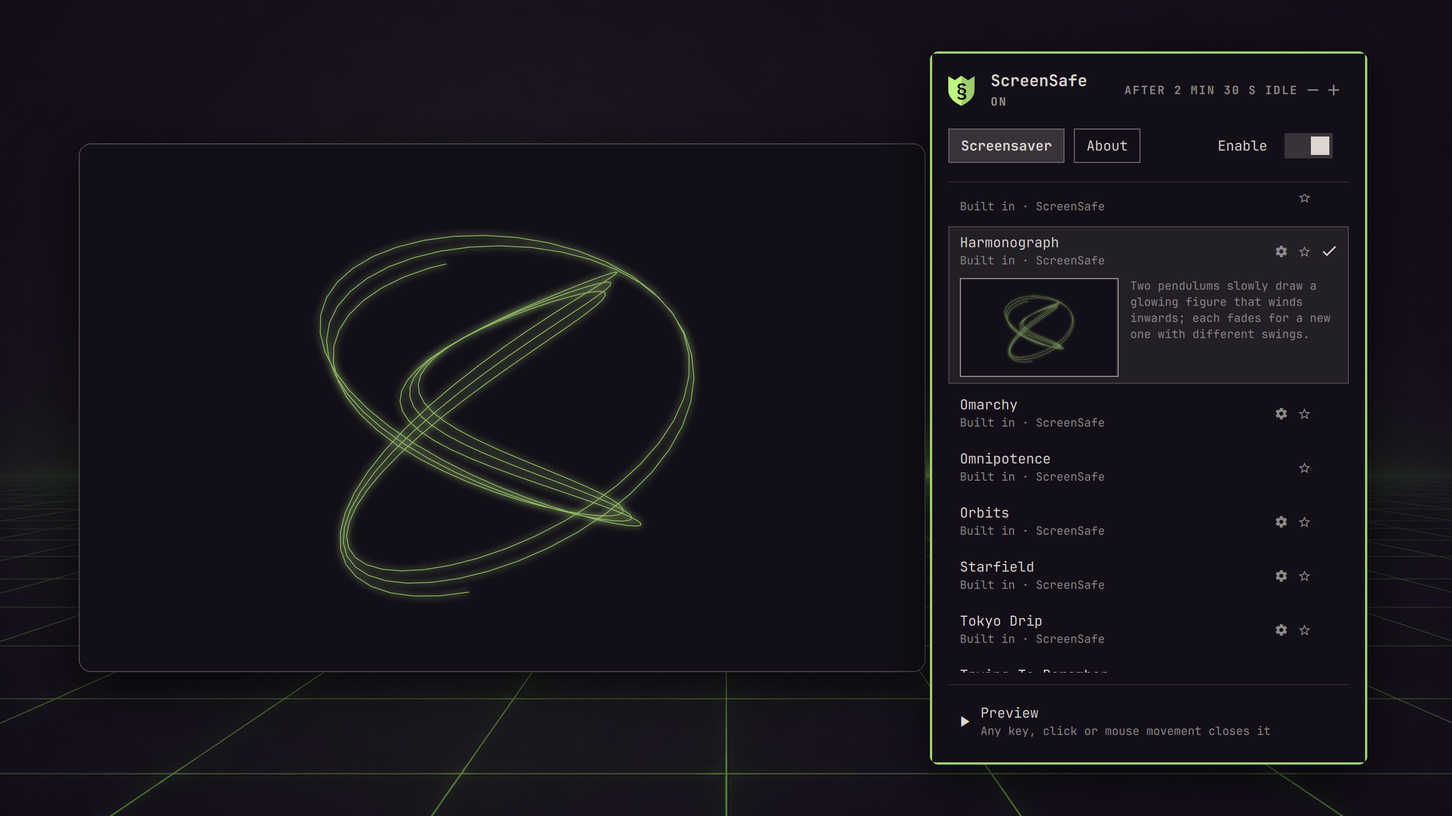
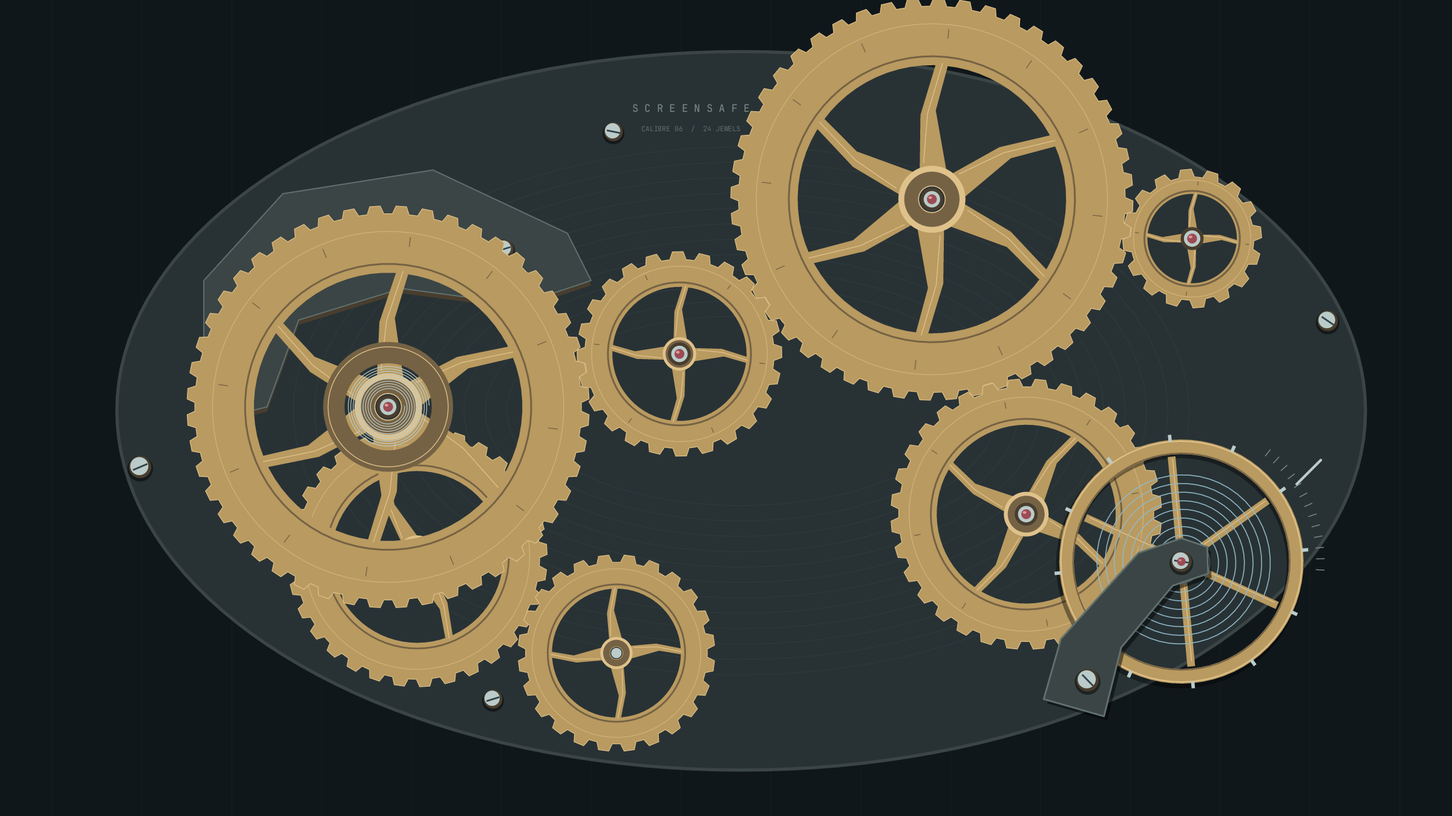
Publish ScreenSafe 0.6.0 documentation and scoped performance results

diff --git a/docs/SSV2-PROTOTYPE.md b/docs/SSV2-PROTOTYPE.md
@@ -1,12 +1,12 @@
 # SSVv2 format and decoder boundary
 
-ScreenSafe 0.6.0's testing candidate integrates this path into Videos, thumbnails and live preview. It remains separate from prepared procedural playback and has not received marketplace approval. Bare renderer invocation still requires the trusted wrapper to read compressed files. Pack authors provide data, not commands or native code.
+ScreenSafe 0.6.0 integrates this path into Videos, thumbnails and live preview. It remains separate from prepared procedural playback and has not received marketplace approval. Bare renderer invocation still requires the trusted wrapper to read compressed files. Pack authors provide data, not commands or native code.
 
-The experiment keeps **16-bit frame references**. It permits up to **65,535 frames**, fixed **24 FPS**, even dimensions up to **1280 × 720**, and **512 MiB per file**. That is at most **45 minutes 30.625 seconds**, subject to storage and conversion budgets. JPEG SSV v1 keeps its existing five-minute, 7,200-frame limits. No renderer frame identifiers were widened.
+The format keeps **16-bit frame references**. It permits up to **65,535 frames**, fixed **24 FPS**, even dimensions up to **1280 × 720**, and **512 MiB per file**. That is at most **45 minutes 30.625 seconds**, subject to storage and conversion budgets. JPEG SSV v1 keeps its existing five-minute, 7,200-frame limits. No renderer frame identifiers were widened.
 
-## Use an isolated checkout
+## Import and explicit CLI playback
 
-Build the renderer normally with `scripts/build-release`. On a standard Omarchy system the remaining tools and libraries are already supplied by the base installation; there is no additional installer or runtime download. This prototype uses the existing bundled resource launcher and sandbox, and system FFmpeg. H.264 encoding needs FFmpeg's libx264; AV1 encoding uses libaom and decoding uses libdav1d. Missing support fails the operation rather than installing anything.
+The normal installation includes the renderer and helpers. Maintainers can rebuild the renderer with `scripts/build-release`. On a standard Omarchy system the remaining tools and libraries are already supplied by the base installation; there is no additional installer or runtime download. This path uses the existing bundled resource launcher and sandbox, and system FFmpeg. H.264 encoding needs FFmpeg's libx264; AV1 encoding uses libaom and decoding uses libdav1d. Missing support fails the operation rather than installing anything.
 
 ```sh
 python3 tools/videos/ssv2.py SOURCE.mp4 /tmp/ssv2-clips/clip.ssv --codec h264
@@ -16,11 +16,11 @@ python3 tools/videos/play_v2.py --renderer "$PWD/bin/screensafe-$(uname -m)" -- 
   run --pack "$PWD/packs/videos" --videos /tmp/ssv2-clips
 ```
 
-The wrapper supports `render`, `check`, `thumbnail`, `catalog` and `preview`. Preview retains a separate inherited text-input pipe before confinement; decoder packets keep their private stdin socket. Only a bounded pipe or regular control file is accepted, with no unsafe raw-FD construction or named listener. The default delivery streams pixels into renderer-owned buffers; `--delivery snapshot` selects sealed snapshots. Hardware startup first admits a complete snapshot so unavailable hardware cannot return a misleading stream. Direct CLI use changes no preferences. This candidate is not marketplace-approved or a finalized interchange standard.
+The wrapper supports `render`, `check`, `thumbnail`, `catalog` and `preview`. Preview retains a separate inherited text-input pipe before confinement; decoder packets keep their private stdin socket. Only a bounded pipe or regular control file is accepted, with no unsafe raw-FD construction or named listener. The default delivery streams pixels into renderer-owned buffers; `--delivery snapshot` selects sealed snapshots. Hardware startup first admits a complete snapshot so unavailable hardware cannot return a misleading stream. Direct CLI use changes no preferences. Marketplace verification applies only to the exact listed commit. SSVv2 remains a ScreenSafe-specific envelope, not a general interchange standard.
 
 ## Explicit H.264 hardware profile
 
-The default wrapper profile is software decoding. Hardware H.264 is an explicit R&D profile for PCI VAAPI render nodes:
+The default wrapper profile is software decoding. Hardware H.264 is an explicit, default-off profile for PCI VAAPI render nodes:
 
 ```sh
 python3 tools/videos/play_v2.py --decoder vaapi --device /dev/dri/renderD128 \
@@ -32,19 +32,19 @@ The caller selects the device; packs and decoder requests cannot supply one. Thi
 
 The broker retains the render-node identity and verifies it again inside the cage before codec startup. Symlinks, primary/card nodes and non-render devices are refused. The worker receives one render node and eight pinned read-only metadata files with the sysfs links needed by the driver. It receives no whole `/sys`, PCI resource/config/ROM files, other GPU devices or display socket. The parent-only device handle is not inherited, and setup descriptors are consumed before codec execution. New sockets and connections are denied by seccomp independently of network namespaces; normal threads remain available.
 
-This preserves final CPU composition and runtime guarding. No DMA-BUF or GPU-writable image is admitted to the renderer. Both direct delivery and sealed snapshots finish copying pixels before checking or displaying them. Render nodes exclude modesetting/DRM-master authority, but expose rendering ioctls and the kernel/driver attack surface; see the [kernel DRM documentation](https://docs.kernel.org/gpu/drm-uapi.html#render-nodes). CPU/address-space limits do not establish a global GPU-memory quota, guarantee recovery from a kernel/driver hang, or make arbitrary GPU ioctls harmless. This requires review before production routing.
+This preserves final CPU composition and runtime guarding. No DMA-BUF or GPU-writable image is admitted to the renderer. Both direct delivery and sealed snapshots finish copying pixels before checking or displaying them. Render nodes exclude modesetting/DRM-master authority, but expose rendering ioctls and the kernel/driver attack surface; see the [kernel DRM documentation](https://docs.kernel.org/gpu/drm-uapi.html#render-nodes). CPU/address-space limits do not establish a global GPU-memory quota, guarantee recovery from a kernel/driver hang, or make arbitrary GPU ioctls harmless. This is part of the 0.6.0 review surface, separately from the software default.
 
 Physical-GPU tests are opt-in: set `SCREENSAFE_TEST_RENDER_NODE` to an explicit accessible render node when running the importer/playback suite. Ordinary CI runs the software cage, protocol and failure tests and skips physical-GPU cases. Actual laptop tests cover hardware-required composition in all six styles, flash rejection, seeks, neighbors, loops, immutable delivery and parent-death cleanup. These are functional/security checks, not a new power or endurance result. Native ARM display/hardware qualification and other hardware APIs remain open.
 
 ## Encode and validate
 
-The explicit importer accepts a retained, no-follow regular MP4 descriptor of at most 2 GiB. It normalizes one video stream to fixed 8-bit YUV420, dimensions and cadence, with no audio, subtitles or variable resolution. HDR transfer functions are refused. The profiles use closed one-second GOPs without frame reordering. H.264 uses CRF 16.8 (chosen so a 47-second grain-heavy 720p clip stays under 50 MB; 16.0 measured 51.9 MiB at SSIM 0.980, 16.8 measured 46.9 MiB at 0.979 with slightly lower decode CPU), x264's `fastdecode` tuning, and disabled B-frames and scene-cut keyframes. The tuning disables CABAC, deblocking and weighted prediction to reduce software decode work; see the [x264 implementation](https://github.com/mirror/x264/blob/master/common/base.c). AV1 uses libaom CRF 24, no lag/alternate-reference frames, and fixed keyframe spacing. These are experiment profiles, not a claim of equivalent quality between codecs.
+The explicit importer accepts a retained, no-follow regular MP4 descriptor of at most 2 GiB. It normalizes one video stream to fixed 8-bit YUV420, dimensions and cadence, with no audio, subtitles or variable resolution. HDR transfer functions are refused. The profiles use closed one-second GOPs without frame reordering. H.264 uses CRF 16.8 (chosen so a 47-second grain-heavy 720p clip stays under 50 MB; 16.0 measured 51.9 MiB at SSIM 0.980, 16.8 measured 46.9 MiB at 0.979 with slightly lower decode CPU), x264's `fastdecode` tuning, and disabled B-frames and scene-cut keyframes. The tuning disables CABAC, deblocking and weighted prediction to reduce software decode work; see the [x264 implementation](https://github.com/mirror/x264/blob/master/common/base.c). AV1 uses libaom CRF 24, no lag/alternate-reference frames, and fixed keyframe spacing. These are ScreenSafe import profiles, not a claim of equivalent quality between codecs.
 
 Encoder jobs cover 30 seconds for H.264 and 4 seconds for AV1. A confined full decode of each job checks actual dimensions, pixel format, frame count and keyframe spacing. Jobs retain the existing 180 CPU-second, 2 GiB address-space, 64-descriptor, 128 MiB regular-file and 64 MiB scratch limits. Encoder/validation wall deadlines are at most 90 seconds each, with a 30-minute overall codec-pipeline budget. Complexity can exhaust a budget before reaching the format ceiling; no partial archive is published.
 
 The parent streams output into private temporary files. Assembly temporarily needs up to twice the compressed file size, plus a bounded index. Publication never replaces an existing destination, including a racing symlink. Cancellation, changed input or failed profile checks remove staging. No video bytes are downloaded.
 
-## File layout (experimental)
+## File layout
 
 All integer fields are little-endian. The 64-byte header is `8s, 14×u32`:
 
@@ -73,7 +73,7 @@ Skipped neighboring frames can use a bounded sealed-memfd cache in the broker, a
 
 The ordinary rasterizer applies crop, tone, curvature, device/Film art and optional overlay. The existing runtime flash guard remains after final composition. This path does **not** use the procedural cache's offline GPU approval or assume that a media hash constrains decoder output. A compromised codec still has its confined syscall/kernel surface; isolation is not a promise that bugs are impossible.
 
-There is no idle broker polling timer: renderer EOF and the parent's pidfd end the work. Codec death, invalid metadata, incomplete frames, expired deadlines or input mutation refuse the video. A well-formed refusal allows subsequent clips; a broken transport closes the prototype session. Shutdown cleans up the decoder and renderer.
+There is no idle broker polling timer: renderer EOF and the parent's pidfd end the work. Codec death, invalid metadata, incomplete frames, expired deadlines or input mutation refuse the video. A well-formed refusal allows subsequent clips; a broken transport closes the playback session. Shutdown cleans up the decoder and renderer.
 
 ## Evidence and remaining qualification
 
@@ -85,4 +85,4 @@ The tested device styles and loop transitions completed without broker failures.
 
 Earlier laptop power tests found guarded software H.264 delivery used less package power than hardware decode with CPU readback in that pipeline. Later owned-pixel work also reduced JPEG cost, so those results are not a fresh comparison of this combined implementation. AV1 has no corresponding watt measurement. New imports default to H.264 for storage, duration and the hardware target; JPEG remains an explicit compatibility option. Hardware selection stays opt-in pending broader power/security qualification. File size, CPU, image quality and watts are distinct measurements; no new battery-runtime percentage is claimed.
 
-Before production routing or a marketplace update: extend laptop endurance and native ARM playback qualification, compare quality on more representative inputs, review the new trusted broker and codec-at-playback surface, and decide whether these profiles and envelope are ready to freeze. GitHub attestations cover the committed application executables; they do not certify codec correctness, encoded-media quality or battery savings.
+Remaining qualification includes more laptop endurance trials, physical ARM playback, other GPUs and more representative clips. The trusted broker and codec-at-playback surface are included in the 0.6.0 review; hardware selection remains explicit and default-off. Future envelope/profile changes require versioned compatibility and fresh validation. GitHub attestations cover the committed application executables; they do not certify codec correctness, encoded-media quality or battery savings.

diff --git a/README.md b/README.md
@@ -16,7 +16,7 @@
   <img src="https://img.shields.io/badge/license-MIT-9ece6a" alt="MIT license">
 </p>
 
-![ScreenSafe's Harmonograph pack, and the ScreenSafe panel with Harmonograph chosen and open](preview.png)
+![Clockwork in ScreenSafe 0.6.0: brass gears, jeweled bearings and a balance spring](preview.png)
 
 A screensaver in ScreenSafe is a **pack**: a folder with a `screensafe.toml` and its art. A pack describes what to draw and how it moves, with small formulas like `sin(t * 2)` in a language that can't loop, read files or reach the network. ScreenSafe draws the pack itself, and nothing in a pack ever runs as a program, **so a pack from someone else can only describe pictures.**
 
@@ -24,11 +24,11 @@ A screensaver in ScreenSafe is a **pack**: a folder with a `screensafe.toml` and
 - **Your theme, everywhere.** Packs draw in the current theme's palette, and a theme can bring a pack of its own.
 - **Sharp on every screen.** Native Wayland drawing; video uses a bounded canvas scaled by the compositor.
 - **Settings without code.** Packs can offer a speed, a density or a picture; change them in the panel and watch the pack update live.
-- **Made to be safe.** A sandboxed renderer, a checked format, and a flash limit no pack can get past.
+- **Bounded and confined.** A checked data format, a confined renderer, and final-frame flash checks with [documented limits](SECURITY.md#flashing).
 
-**0.6.0 testing candidate:** combines the compiler and sprite optimizations, video styles, theme colors, trusted overlay and opt-in prepared loops with compressed SSVv2 videos. H.264 hardware decoding is an explicit control under Settings → Performance; the live preview and full-screen player use the same policy and final flash guard. All application helpers are included for x86-64 and ARM64; installation builds and downloads nothing else. See [the Videos guide](docs/VIDEO-PROTOTYPE.md). Marketplace approval of 0.4.8 does not cover this candidate; verify the exact commit and binary attestations as described below.
+**New in 0.6.0:** more efficient expression and sprite rendering, optional prepared playback, local videos with Film/CRT/Flatscreen styles, Seasons and Clockwork, theme swatches and custom colors, and an optional information overlay. [Performance measurements](docs/PERFORMANCE.md) separate drawing gains, cache savings and the cost of stronger flash analysis.
 
-The [SSVv2 boundary notes](docs/SSV2-PROTOTYPE.md) describe codec isolation, hardware authority and owned frame delivery. Existing JPEG clips remain supported, and final-composition flash guarding stays active in both video modes.
+All application helpers are included for x86-64 and ARM64; installation builds and downloads nothing else. [The Videos guide](docs/VIDEO-PROTOTYPE.md) covers local imports and playback. [The marketplace listing](https://omarchyplugins.com/plugin.html?id=io.github.jeremydixon22.screensafe) shows the currently reviewed snapshot: verification applies to that exact commit, not automatically to newer upstream code.
 
 ## The packs
 
@@ -52,7 +52,15 @@ omarchy plugin enable io.github.jeremydixon22.screensafe
 
 ScreenSafe's shield appears in the bar, in your theme's accent. Nothing changes until you switch it on: Omarchy's own screensaver stays in use until then.
 
-ScreenSafe needs Omarchy 4 on an x86-64 or 64-bit ARM computer, with no separate runtime setup. The 0.6.0 candidate has been tested on an x86-64 Omarchy 4.5.x laptop. CI runs renderer tests and native-helper checks on both x86-64 and ARM64; physical ARM GPU playback has not been qualified. Prepared playback checks the local display and GPU profile and uses normal rendering when the setup is unsupported.
+ScreenSafe needs Omarchy 4 on an x86-64 or 64-bit ARM computer, with no separate runtime setup. Version 0.6.0 has been tested on an x86-64 Omarchy 4.5.x laptop. CI runs renderer tests and native-helper checks on both x86-64 and ARM64; physical ARM GPU playback has not been qualified. Prepared playback checks the local display and GPU profile and uses normal rendering when the setup is unsupported.
+
+To update an existing Git-managed installation:
+
+```sh
+omarchy plugin update io.github.jeremydixon22.screensafe
+```
+
+Your chosen pack and settings are retained. Updates to playback code or graphics libraries require fresh approval before a prepared loop can be reused.
 
 ## Use
 
@@ -61,10 +69,11 @@ Click the shield in the bar.
 | | |
 |---|---|
 | **Settings → Overlay** | Optional clock, date, battery, CPU and memory over any pack. The position grid stays pinned while other options scroll. Choose one of nine positions, size, opacity and colors; slow drift is on by default. System readings are off until selected. Use Preview to try the result. |
-| **Settings → Performance** | Prepare a short loop of a supported screensaver on external power, then reuse it to reduce runtime work. Off by default; use on battery only or all the time, choose a storage limit, cancel preparation, or clear loops. Prepared loops repeat a segment. Clocks, Photos, Videos, the overlay, and unsupported displays use normal playback. |
+| **Settings → Performance** | Turn on **Prepared playback** to build eligible loops automatically on external power and reuse them on later activations. Preparation starts with fullscreen progress; lighter packs can appear with lower-third progress. Off by default. Choose battery-only or all-time reuse, a storage limit, cancellation or clear. Prepared loops repeat a 16–32 second segment; clocks, Photos, Videos, overlays and unsupported displays stay live. |
 | **Enable** | Show ScreenSafe instead of Omarchy's screensaver when you're idle. Right-clicking the shield does the same. |
 | **After … idle** | How long you're idle before it shows. It follows Omarchy's screensaver time until you choose your own with **−** and **+** (or the arrow keys), from 1 minute to an hour; step back below 1 minute to follow Omarchy's again. Point at it to see whose time it is and when Omarchy locks. |
-| **Pack** | Which screensaver to show. **Automatic** shows the current theme's pack if it has one, and the Omarchy pack otherwise. Every entry shows its thumbnail and description in a stable card. Press `f` or click ☆ to make it a favorite, listed first. |
+| **Pack** | Which screensaver to show. **Automatic** shows the current theme's pack if it has one, and the Omarchy pack otherwise. Every entry shows its thumbnail and description in a stable card. Press `f` or click ☆ to make it a favorite. The star updates immediately; favorites move to the top the next time the panel opens. |
+| **Hardware H.264 videos** | An independent, default-off control under Settings → Performance. Software decoding is the default. The hardware path must produce checked, renderer-owned pixels before final composition and flash checks; unsupported hardware is refused. |
 | **Color** | Theme-based packs offer theme swatches and a custom HSV picker, pinned below the scrolling options. Original theme colors remain the default. Tinting preserves light/dark detail; Photos and Videos show this control when **Tone → Theme** is selected. |
 | **⚙ Settings** | For a pack that has them: click ⚙, or press → or `s` on its row. The page shows the pack running live as you change them; turn **Live preview** off for a still thumbnail and the usual Preview. |
 | **Preview** | Show the chosen pack now. Any key, click, touch or mouse movement closes it. |
@@ -175,7 +184,7 @@ python3 scripts/build-native.py /tmp/screensafe-native
 scripts/verify-native
 ```
 
-Prepared playback supports a single, unrotated display up to 4096 × 2160 and 64 Hz when a PCI GPU fits the bounded metadata profile and its driver exports linear XRGB buffers. Preparation checks both software and hardware-copy decoding and uses a passing profile; direct hardware interop is excluded. Updates to relevant binaries, graphics/codec libraries, kernel, theme, settings or display invalidate reuse. The small settings preview stays live. With **Prepared playback** enabled, full-screen Preview and idle activation automatically prepare a missing eligible loop on known external power. A progress bar appears over live rendering when there is enough headroom, or replaces it while preparation is busy. Completion resumes live rendering; later activations may reuse the approved loop. **Use on battery only** controls reuse and still permits preparation on external power. Choose **Rebuild selected screensaver** to regenerate it explicitly. Unsupported setups use normal playback.
+Prepared playback supports a single, unrotated display up to 4096 × 2160 and 64 Hz when a PCI GPU fits the bounded metadata profile and its driver exports linear XRGB buffers. Preparation checks both software and hardware-copy decoding and uses a passing profile; direct hardware interop is excluded. Updates to relevant binaries, graphics/codec libraries, kernel, theme, settings or display invalidate reuse. The small settings preview stays live. With **Prepared playback** enabled, full-screen Preview and idle activation automatically prepare a missing eligible loop on known external power. Fullscreen progress appears first while rendering cost is tested out of sight. A pack with enough headroom is then revealed above lower-third progress; demanding packs keep the progress-only display. Completion resumes live rendering; later activations may reuse the approved loop. **Use on battery only** controls reuse and still permits preparation on external power. Choose **Rebuild selected screensaver** to regenerate it explicitly. Unsupported setups use normal playback.
 
 Prepared playback can reduce power for demanding effects. Simple screensavers may cost less to draw live than to decode and present as video; prepared playback remains off by default. The prepared segment repeats, while live playback can continue generating new variations. On battery, an empty cache falls back without hashing the runtime libraries. Automatic generation runs only on external power, and input, lock or shell exit cancels unfinished work. Existing approvals still receive full identity and sealed-media verification; independent file hashes run in bounded parallel workers. Updated decoder/policy identities require fresh preparation.
 

diff --git a/docs/REVIEW-NOTES.md b/docs/REVIEW-NOTES.md
@@ -2,13 +2,13 @@
 
 A summary of what ScreenSafe does on a user's machine, for marketplace and other reviewers. [SECURITY.md](../SECURITY.md) has the full account.
 
-## 0.6.0 combined testing candidate
+## 0.6.0 update
 
 This retains 0.5.0's compiler/sprite optimizations, video art/startup/drift, colors, overlay and opt-in procedural loops. It integrates SSVv2 into catalog/thumbnail/live preview/full-screen Videos, with a software default and an explicit Hardware H.264 control. Videos bypass procedural cache routing. Imports default to H.264 SSVv2; JPEG remains readable and explicitly importable. V2 keeps 16-bit references, 65,535 frames, 720p/24 FPS and the 512 MiB file cap.
 
 For compressed Videos, the trusted broker selects codec/device policy; packs cannot request commands or devices. Hardware adds one identity-checked PCI render node and eight pinned read-only metadata files. No compositor socket, full sysfs or primary GPU node is exposed. New worker sockets are denied. Allocation/pixel limits constrain coded headers as well as the envelope. Hardware produces a complete snapshot before streaming, with no silent software downgrade. Copied owned pixels still pass final composition/runtime guarding.
 
-Fullscreen overlay/stats/Quit and preview settings/region/Quit use a separately retained inherited text pipe, preserving the private decoder packet channel and bounded control parsing. No named endpoint, unsafe Rust or additional native helper beyond the 0.5.0 set was added. Both decoder paths use the shared retained PCI render-node/eight-file metadata authority. The prepared worker independently denies new socket/connection/listener operations across all library threads after trusted graphics initialization and before media parsing. Its native self-test checks existing/new threads and retained IPC. Empty-cache fallback avoids runtime-library hashing; possible hits retain all approval checks. GPU kernel/driver authority, global GPU resource limits, physical ARM hardware and end-to-end power remain qualification items. Existing marketplace approval does not cover this candidate.
+Fullscreen overlay/stats/Quit and preview settings/region/Quit use a separately retained inherited text pipe, preserving the private decoder packet channel and bounded control parsing. No named endpoint, unsafe Rust or additional native helper beyond the 0.5.0 set was added. Both decoder paths use the shared retained PCI render-node/eight-file metadata authority. The prepared worker independently denies new socket/connection/listener operations across all library threads after trusted graphics initialization and before media parsing. Its native self-test checks existing/new threads and retained IPC. Empty-cache fallback avoids runtime-library hashing; possible hits retain all approval checks. GPU kernel/driver authority, global GPU resource limits, physical ARM hardware and end-to-end power remain qualification items. The 0.4.8 marketplace approval does not cover 0.6.0; verification is tied to the exact listed commit.
 
 Automatic preparation is opt-in through Prepared playback. On external power a missing eligible loop uses the existing deterministic recording/encoding and GPU verification paths, with trusted progress composed inside the normal flash-guarded renderer. Runtime cost selects an overlay or progress-only display. Progress never grants approval, codec counts are stage-bounded, and input/lock/unload cancellation ends work. Completed loops are reused on later activations. Battery-only controls reuse, not permission to generate on battery. No new native dependency or renderer filesystem authority is added.
 
@@ -20,7 +20,7 @@ Flash admission now averages every pixel on a finer grid and checks concurrent t
 
 ## Expected baseline result
 
-The 0.4.8 release's baseline was `review-required`, with no findings and one capability: `bundled-executable-binary`. The 0.6.0 candidate includes six native helper executables in addition to the two static Rust renderers, so a fresh exact-commit scan and human review are required. All eight binaries are included and have rebuild/attestation recipes; see [BINARY-PROVENANCE.md](BINARY-PROVENANCE.md) and [native packaging](NATIVE-PACKAGE.md). Installation never downloads dependencies, builds source or runs privileged setup. Omarchy supplies the existing media/graphics libraries.
+The 0.4.8 release's baseline was `review-required`, with no findings and one capability: `bundled-executable-binary`. The 0.6.0 update includes six native helper executables in addition to the two static Rust renderers, so a fresh exact-commit scan and human review are required. All eight binaries are included and have rebuild/attestation recipes; see [BINARY-PROVENANCE.md](BINARY-PROVENANCE.md) and [native packaging](NATIVE-PACKAGE.md). Installation never downloads dependencies, builds source or runs privileged setup. Omarchy supplies the existing media/graphics libraries.
 
 To reproduce the result, `tests/marketplace-baseline.mjs` runs the marketplace's own `runSecurityBaseline` on a commit of this repository, serving the files from the local Git store:
 
@@ -116,7 +116,7 @@ Omarchy's idle service keeps the lock timer and stay-awake.
 
 - **`skills/screensafe-packs/SKILL.md`:** instructions for a user's coding agent on making and sharing packs. It's documentation only: the plugin never installs, reads or runs it, and nothing is written to any agent's folders.
 
-## Optional trusted information overlay (0.5.0)
+## Optional trusted information overlay (0.6.0)
 
 The global overlay is off by default. Its clock/date and optional battery, CPU and memory readings are rendered by ScreenSafe after evaluating the pack and before the existing combined-frame flash guard. None of these system readings is inserted into pack expressions, pack settings, thumbnails, files or network messages. The overlay accepts only bounded, finite numeric controls from the service; unknown fields, duplicate keys and out-of-range values are rejected. Notification text, hostnames, window titles, network addresses and arbitrary strings are not accepted.
 
@@ -124,17 +124,17 @@ The service uses the shell's existing UPower module for a battery percentage. CP
 
 Only overlay display preferences are saved, in the plugin's own `shell.json` entry under `overlay`; readings are held in memory. Controls cover clock/date, three optional system readings, nine-position placement, size, opacity, colors and slow drift. Existing pack settings and their limits are unchanged.
 
-## Videos (0.5.0)
+## Videos (0.6.0)
 
 The fixed videos folder holds prepared `.ssv` files. Video is normalized by a separate, isolated importer; the shell never invokes a video decoder on a contributed pack or plays arbitrary URLs. The retained-descriptor reader, decode/cache limits, device art, CRT sampling and unchanged combined-frame flash guard are described in [VIDEO-PROTOTYPE.md](VIDEO-PROTOTYPE.md). Videos metadata and its fixed folder join the existing photo inputs; neither introduces system readings into pack expressions.
 
-## Theme/custom color controls (0.5.0)
+## Theme/custom color controls (0.6.0)
 
 Color controls use numeric theme IDs or an exact 24-bit RGB encoding; arbitrary strings, non-finite values and out-of-range codes are rejected. The palette's 27 validated names and hex swatches are included once in the existing bounded catalog response. The shared QML picker uses swatches, HSV geometry/sliders and a read-only hex label, with no text/clipboard input or external dialog. Drag changes are coalesced to at most one commit per 150 ms plus the final release; queued stale thumbnails for the same pack/size are replaced. Existing one-thumbnail-per-pack/size storage and native preview/decode limits remain.
 
 Recoloring is prepared at pack load, preserves each colored palette ink's relative luminance and alpha, and leaves backgrounds and black/white fixed. The existing theme image filter uses that palette; Original images are unaffected. This adds no filesystem paths, processes, network access, runtime dependencies or change to the combined-frame flash guard.
 
-## Optional prepared playback (0.5.0 development)
+## Optional prepared playback (0.6.0)
 
 The former Overlay tab is now **Settings**, with **Overlay** and **Performance** sub-tabs. Prepared playback is off by default, defaults to use on battery only when enabled, and never prepares automatically. The user starts preparation on known external power; it is cancellable. Storage choices are 256 MB, 512 MB (default), 1 GB and 2 GB, with oldest-used loops evicted and a clear button. Preferences stay in the plugin's `shell.json` entry under `performance`.
 
@@ -144,7 +144,7 @@ Preparation uses the confined Rust evaluator to supply bounded raw pixels to a n
 
 Live playback remains the default and fallback, including clock-dependent packs, Photos, Videos, overlays, unsupported displays, missing approvals and worker failures. Live previews continue through the ordinary guarded renderer. Both architecture helper sets are included; users do not compile or install a native component separately. Native ARM/x86 CI checks the worker API/seccomp and the controller/importer/settings tests, while actual GPU fidelity/eligibility is verified locally during preparation. A passing CI run is not a claim of universal GPU support.
 
-## 0.4.8 to 0.5.0 review focus
+## 0.4.8 to 0.6.0 review focus
 
 - Compiler/color/panel changes keep pack admission costs and data-only authoring. Generated expression branches only go forward. No contributed native code or shell command path was added.
 - Overlay reads only optional anonymous CPU/memory/battery aggregates outside pack expressions and remains before the runtime combined-frame flash guard.

diff --git a/docs/PERFORMANCE.md b/docs/PERFORMANCE.md
@@ -1,0 +1,29 @@
+# ScreenSafe 0.6.0 performance measurements
+
+The release headline is **about 66% less CPU with optional prepared Cascade playback**, and **about 18% less evaluation/drawing time in Laser Code**. These are specific laptop workloads, not a claim that every screensaver is faster or uses less power. [Machine-readable results](performance-data.json) include the individual measurements.
+
+## Final-binary comparisons
+
+Measured on 14 November 2026, on one x86-64 Omarchy 4.5.0-3 laptop at 2304 × 1440 on external power. The release's runtime binaries are the same as the qualified `3e197a7` candidate; release documentation does not change executable bytes. Each comparison used two runs per condition in forward/reverse order.
+
+| Measurement | Control | 0.6.0 / prepared | Result |
+|---|---:|---:|---:|
+| Laser Code evaluation + drawing | 32.48 ms/frame, 0.4.8 | 26.76 ms/frame, 0.6.0 | 17.6% less drawing work |
+| Complete Laser Code check, including flash analysis | 24.26 CPU seconds | 34.44 CPU seconds | 42.0% more total CPU work |
+| Cascade playback, complete process tree | 67.58% of one core, live | 23.21% of one core, prepared | 65.7% less CPU |
+
+The drawing comparison runs the same approved Laser Code pack, default settings, theme, resolution and first 30 seconds at 24 FPS: 720 offscreen frames per run. `drawMsPerFrame` measures evaluation and drawing, excluding flash analysis. Complete process CPU was also measured, so the drawing improvement is not presented as an end-to-end CPU saving. The more thorough 0.6.0 flash analysis adds substantial work in this workload; it remains enabled.
+
+The Cascade comparison caps live playback at 24 FPS and uses the prepared player's fixed 24 FPS. Each activation lasts 60 seconds; CPU is sampled over approximately 40 seconds after a 15-second warmup. `/proc` accounting includes every renderer, controller, sandbox monitor and codec-worker process. Ordinary command timing misses the isolated codec worker and was rejected for this comparison. Observed client submissions across runs were approximately 23.7–24.0 per second; these are not physical display-timing measurements. Prepared playback repeats a checked 32-second segment, while live rendering continues generating variations.
+
+## Earlier power measurements
+
+Paired forward/reverse Harmonograph trials on 26 October 2026, using the earlier integrated player at the same native resolution and a 24 FPS cap, measured **7.76–7.81 W live versus 5.48–5.58 W prepared** in the processor-package energy domain: approximately **29% lower package power**. A final hardened-player confirmation measured 5.57 W. This supports a workload-specific estimate of the optional route's potential, not a fresh power result for the complete 0.6.0 release.
+
+Those figures exclude the display and other whole-system loads. They are not a measured battery-runtime improvement and cannot be converted into one without additional measurements. Video hardware decoding with CPU readback is a different pipeline and is not covered by the procedural-cache saving.
+
+## Choosing prepared playback
+
+Prepared playback is off by default. It records and verifies a 16–32 second loop on known external power, then can reuse it on later activations. Preparation has an up-front CPU, energy and storage cost; a short session may never repay that cost. Simple packs may be cheaper live. Clocks, Photos, Videos, overlays and unsupported displays use normal rendering.
+
+The setting does not reduce admission budgets or let a pack skip safety policy. Normal rendering checks each final composed frame; prepared playback needs a local approval of the exact decoded output and execution profile. See [Security](../SECURITY.md) for the separate trust assumption, timing rules and approximation limits. None of these performance trials certifies medical safety, every GPU or every community pack.

diff --git a/skills/screensafe-packs/SKILL.md b/skills/screensafe-packs/SKILL.md
@@ -38,13 +38,16 @@ screensafe=$plugin/bin/screensafe-$(uname -m)
    - Aim for `drawMsPerFrame` well under a frame's time (33 ms at 30 fps) at the user's screen size. Lower `fps` for slow motion.
    - Put one `glow` on a group that holds everything that glows, not on each element or on a group with a `count`.
    - Keep image `zoom` and `scale` fixed and move images with `pan_x`/`pan_y`, which costs far less.
-6. **Never work around the flash limit.** If `check` reports flashes, slow or soften the change. Don't try to find what the measure misses.
-7. **Pick its best moment.** Set `preview` to the time, in seconds, that shows the pack best. The panel's thumbnail draws that frame. Look at that frame with `render` and the same `--time`.
-8. **Offer settings only where they matter.** A speed, a density, or a choice of picture can be `[[setting]]`s that people change in the panel (`docs/PACKS.md`, Settings). Keep the defaults as the pack looks best, check each value with `render --settings name=value`, and run `check` at the most demanding ones. A pack that tells a timed story is usually best without any.
+6. **Use the available controls.** Format 2 packs can declare a `kind = "color"` setting and `colorize` to expose theme swatches plus a custom color. Preserve light/dark contrast; use the existing built-in packs as examples. The global overlay and optional prepared playback are user settings, not files or commands supplied by a pack. Do not distribute cached clips, approval records or a separate compiler.
+7. **Never work around the flash limit.** If `check` reports flashes, slow or soften the change. Don't try to find what the measure misses.
+8. **Pick its best moment.** Set `preview` to the time, in seconds, that shows the pack best. The panel's thumbnail draws that frame. Look at that frame with `render` and the same `--time`.
+9. **Offer settings only where they matter.** A speed, a density, or a choice of picture can be `[[setting]]`s that people change in the panel (`docs/PACKS.md`, Settings). Keep the defaults as the pack looks best, check each value with `render --settings name=value`, and run `check` at the most demanding ones. A pack that tells a timed story is usually best without any.
 
 ### From a video or other existing art
 
-Packs can't play video. Adapt it instead:
+ScreenSafe 0.6.0 can play local `.ssv` videos through `source = "videos"` in a format 2 pack. Use the built-in Videos pack as a layout example and read `docs/VIDEO-PROTOTYPE.md` for the explicit importer and broker commands. Raw MP4s are not pack programs and are never converted automatically. The community catalog currently accepts procedural/image/font packs; it does not accept video archives or media-dependent layouts without broker-aware review fixtures.
+
+For a procedural adaptation instead:
 
 - **Stills:** take a few frames as images and move between them slowly. A median of several seconds of frames keeps a scene's background and drops fast-moving detail.
 - **Motion:** recreate the movement with lines, meshes and glow.

diff --git a/docs/PACKS.md b/docs/PACKS.md
@@ -55,7 +55,7 @@ Sizes and line widths are in the same units, so `size = 0.05` is a twentieth of 
 
 | Setting | Default | Meaning |
 |---|---|---|
-| `format` | required | `1`, or `2` for a pack that uses what ScreenSafe 0.5 added: videos, `color` settings, `colorize`. An older ScreenSafe then refuses the pack with a clear message instead of failing on a field it doesn't know. |
+| `format` | required | `1`, or `2` for video sources, `color` settings and `colorize` (available in the 0.6.0 release). An older ScreenSafe then refuses the pack with a clear message instead of failing on a field it doesn't know. |
 | `name` | required | Up to 60 characters. |
 | `author`, `license` | empty | Up to 60 and 40 characters. |
 | `description` | empty | Up to 300 characters. |
@@ -270,7 +270,7 @@ default = 400
 
 A value someone chose is always one the pack allows: a choice that isn't offered, or a number outside a range, gives the default, and a range's value is snapped to its steps. Settings are numbers and true/false values, worked out as the pack loads, so `count` and the like can't depend on them. Instead, give an element its largest `count` and hide the rest: `visible = "i < count"`. A setting can also choose a scene's `duration` or `hold`. Offer settings only where they change something people will care about. A pack that tells a timed story is usually best without any.
 
-ScreenSafe 0.5 reads pack formats 1 and 2. Existing packs can keep format 1; video sources, `color` settings and `colorize` require `format = 2` at the root. Older renderers reject format 2 clearly instead of ignoring a new feature.
+ScreenSafe 0.6.0 reads pack formats 1 and 2. Existing packs can keep format 1; video sources, `color` settings and `colorize` require `format = 2` at the root. Older renderers reject format 2 clearly instead of ignoring a new feature.
 
 A `color` setting offers the current theme's swatches and a custom HSV picker. For whole-palette recoloring, set `colorize` at the root, before any tables, to that setting's name:
 

diff --git a/docs/COMMUNITY.md b/docs/COMMUNITY.md
@@ -29,6 +29,12 @@ they like, since nothing they push changes what people install. The checks list 
 approved commit, and the review covers those. Until the update is approved, the previous version stays listed. The
 approved commit must stay reachable in the maker's repository; a tag on it is the simplest way.
 
+## ScreenSafe 0.6.0 compatibility
+
+The catalog checks both declarative formats with a checksum-pinned 0.6.0 renderer. Format 1 listings retain their 0.4.8 minimum; format 2 listings advertise 0.6.0 and can use color controls and `colorize`. Compiler and sprite optimizations are automatic. Overlay and prepared playback remain user options; pack authors do not supply cached video or approval files.
+
+The catalog's file policy still accepts TOML, text, images and fonts. The built-in Videos player and personal `.ssv` library are supported by ScreenSafe, but raw video, `.ssv` archives and media-dependent community layouts are not catalog submissions yet. They need explicit broker-aware fixtures and rights review before this catalog can claim to verify them. See the catalog's current CONTRIBUTING.md for the exact policy.
+
 ## An entry
 
 ```toml

diff --git a/docs/VIDEO-PROTOTYPE.md b/docs/VIDEO-PROTOTYPE.md
@@ -1,6 +1,6 @@
-# Videos (0.6.0 testing candidate)
+# Videos in ScreenSafe 0.6.0
 
-This candidate combines the retained compiler, prefetch and sprite optimizations, Photos-like Videos, colors, overlays and prepared procedural loops with compressed SSVv2 playback. It is not covered by the earlier 0.4.8 marketplace approval.
+This release combines the retained compiler, prefetch and sprite optimizations, Photos-like Videos, colors, overlays and prepared procedural loops with compressed SSVv2 playback. Marketplace verification is bound to an exact snapshot; check the listing for the currently reviewed version.
 
 Videos has Full screen, Whole, Film, CRT Fit, CRT Box and Flatscreen styles; Original, Greyscale, Sepia and Theme tones; shuffle/in-order selection; and a display interval or Full length. Loop is on by default and repeats the playlist. With Loop off, the playlist plays once, then holds the final video's frame at the end of the chosen interval (or the clip's end, if earlier). Full length uses the longest imported clip as a common interval; shorter clips hold their final frame until the next selection.
 
